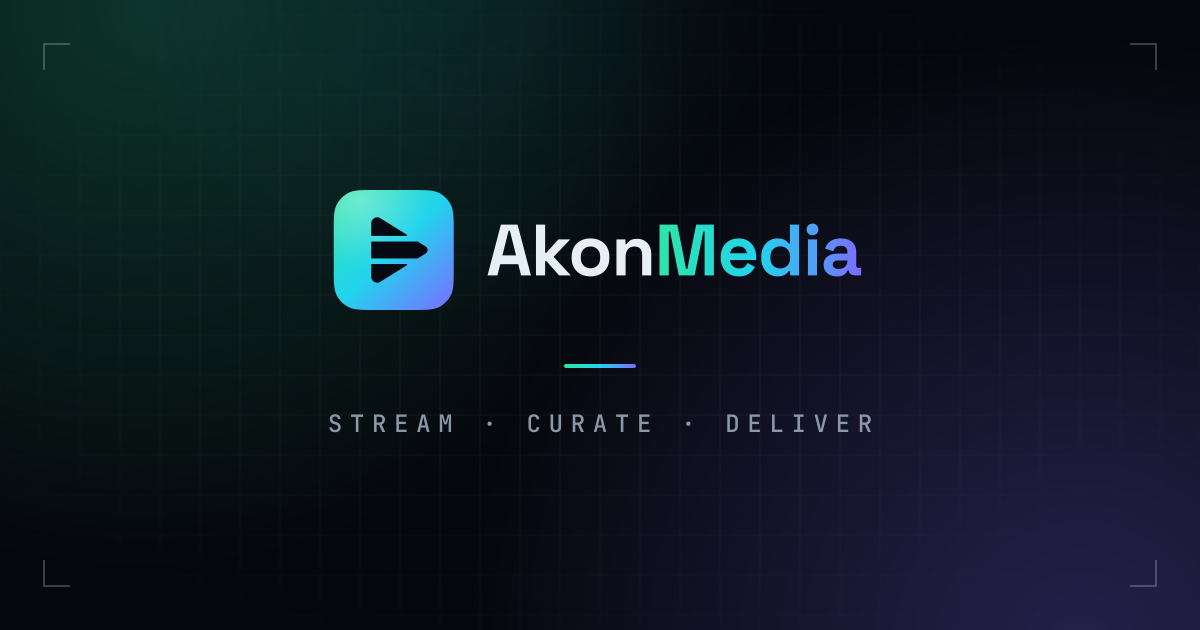
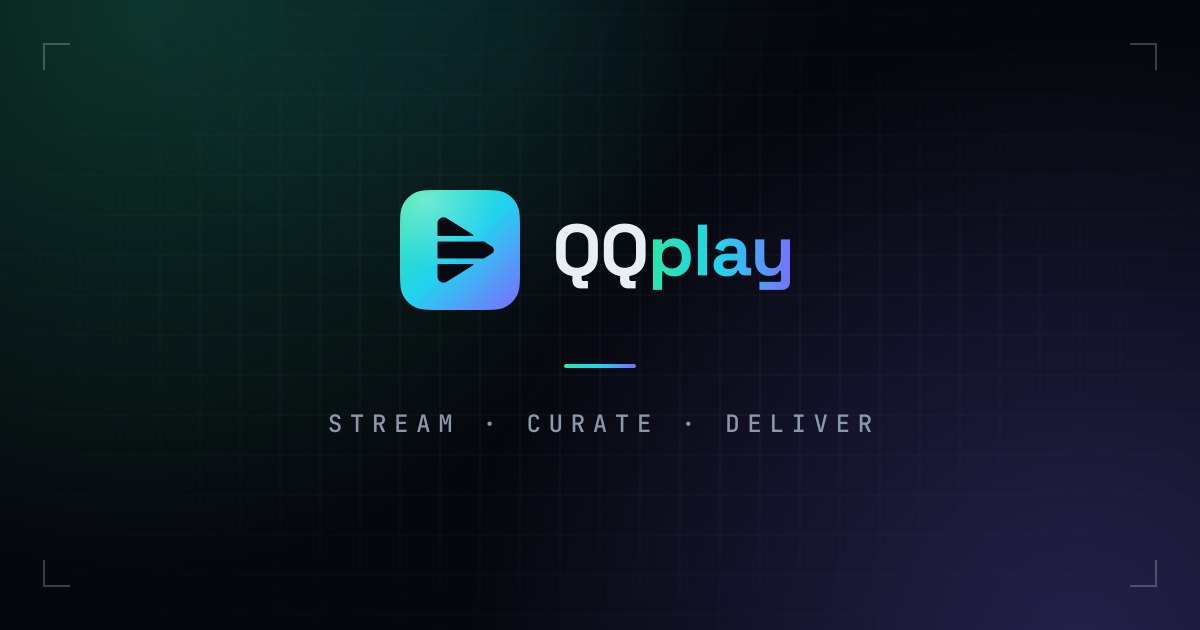
brand: rename the product to QQplay
Everything a person reads now says QQplay: the portal name (PORTAL_NAME
default), the wordmark ("QQ" in the text colour, "play" in the aurora
gradient; the play-ladder mark stays), SVG titles, the web manifest,
the social card, the demo content, the docs and the Oracle guide.
tools/build_logo.py takes the name from BRAND_NAME, and the header's
logo size follows the new, narrower wordmark.

The names an operator sees follow, while nothing runs in production
yet: compose project and volumes (qqplay_*), images, database name and
user, backups (~/qqplay-backups, qqplay-*.dump), the Celery app and the
health check. The guide clones into ~/qqplay. AKON_DOMAIN becomes
PORTAL_DOMAIN, so the deploy files no longer carry a product name.

The database service now reads POSTGRES_DB, POSTGRES_USER and
POSTGRES_PASSWORD from .env, like the portal does, with defaults that
match .env.docker, and backup.sh and the docs ask the container for
them. An .env copied before the rename (akonmedia names) keeps working
instead of pointing the portal at a database that does not exist.

Internal code identifiers that nobody sees stay as they are: the akon
template tag library, the AkonPlayer/AkonApp scripting API, browser
storage keys and the paths inside the live image. LICENSE keeps its
copyright line.

Verified: 284 tests; images rebuilt; the stack started both with an
old-style .env (database created with the akonmedia names, portal
[…]

Changed region(s): [[0.2775, 0.3016, 0.74, 0.5127]]

diff --git a/templates/base.html b/templates/base.html
@@ -58,8 +58,8 @@
         {% icon "menu" %}
       </button>
       <a class="brand" href="{% url 'core:index' %}" aria-label="{% blocktranslate %}{{ PORTAL_NAME }} home{% endblocktranslate %}">
-        <img class="logo-dark" src="{% static 'brand/logo-wordmark-dark.svg' %}" alt="{{ PORTAL_NAME }}" width="142" height="32">
-        <img class="logo-light" src="{% static 'brand/logo-wordmark-light.svg' %}" alt="{{ PORTAL_NAME }}" width="142" height="32">
+        <img class="logo-dark" src="{% static 'brand/logo-wordmark-dark.svg' %}" alt="{{ PORTAL_NAME }}" width="107" height="32">
+        <img class="logo-light" src="{% static 'brand/logo-wordmark-light.svg' %}" alt="{{ PORTAL_NAME }}" width="107" height="32">
       </a>
     </div>
 
@@ -124,8 +124,8 @@
     <aside class="sidebar" id="sidebar" aria-label="{% translate 'Main navigation' %}">
       <div class="drawer-head">
         <a class="brand" href="{% url 'core:index' %}">
-          <img class="logo-dark" src="{% static 'brand/logo-wordmark-dark.svg' %}" alt="{{ PORTAL_NAME }}" width="133" height="30">
-          <img class="logo-light" src="{% static 'brand/logo-wordmark-light.svg' %}" alt="{{ PORTAL_NAME }}" width="133" height="30">
+          <img class="logo-dark" src="{% static 'brand/logo-wordmark-dark.svg' %}" alt="{{ PORTAL_NAME }}" width="100" height="30">
+          <img class="logo-light" src="{% static 'brand/logo-wordmark-light.svg' %}" alt="{{ PORTAL_NAME }}" width="100" height="30">
         </a>
         <button class="icon-btn" type="button" data-action="toggle-sidebar" aria-label="{% translate 'Close navigation' %}">{% icon "x" %}</button>
       </div>

diff --git a/static/css/player.css b/static/css/player.css
@@ -1,4 +1,4 @@
-/* AkonMedia player — pairs with static/js/player.js.
+/* QQplay player — pairs with static/js/player.js.
  *
  * Everything is scoped under .player and prefixed pl-, so it can sit inside
  * any page. Site tokens are used when present, with fallbacks so the embed

diff --git a/static/js/cast.js b/static/js/cast.js
@@ -1,4 +1,4 @@
-/* AkonMedia: streaming a live from the browser.
+/* QQplay: streaming a live from the browser.
  *
  * In the control room, the "From this browser" tab records the camera, or the
  * screen with the microphone, using MediaRecorder, and posts one chunk a

diff --git a/static/js/live.js b/static/js/live.js
@@ -1,4 +1,4 @@
-/* AkonMedia live pages: the viewer page, the studio's control room and the
+/* QQplay live pages: the viewer page, the studio's control room and the
  * embed.
  *
  * The server renders every state of the page (waiting, on air, ended, each

diff --git a/static/js/app.js b/static/js/app.js
@@ -1,4 +1,4 @@
-/* AkonMedia interface behaviour.
+/* QQplay interface behaviour.
  *
  * Small, dependency-free enhancements. Every page works without this file;
  * it adds keyboard shortcuts, menus, copy buttons, live processing status and

diff --git a/static/js/player.js b/static/js/player.js
@@ -1,4 +1,4 @@
-/* AkonMedia player.
+/* QQplay player.
  *
  * Progressive enhancement over a native <video controls> element. Without
  * JavaScript the browser's own controls stay in place. With it, the element

diff --git a/static/css/app.css b/static/css/app.css
@@ -1,4 +1,4 @@
-/* AkonMedia — hand-written stylesheet, no framework.
+/* QQplay — hand-written stylesheet, no framework.
  *
  *  1. tokens (dark default, light theme)
  *  2. base

diff --git a/tools/build_logo.py b/tools/build_logo.py
@@ -1,4 +1,4 @@
-"""Build the AkonMedia brand kit: logo, app icons, web fonts and icon sprite.
+"""Build the QQplay brand kit: logo, app icons, web fonts and icon sprite.
 
 Every file this script writes is generated and committed; none is hand-edited.
 
@@ -88,6 +88,12 @@ LUCIDE_CDN = f"https://cdn.jsdelivr.net/npm/lucide-static@{LUCIDE_VERSION}"
 # palette
 # --------------------------------------------------------------------------
 
+#: The name on the wordmark, in the SVG titles, the web manifest and the social
+#: card. The wordmark sets the first BRAND_SPLIT letters in the text colour and
+#: the rest in the aurora gradient: "QQ" + "play".
+BRAND_NAME = "QQplay"
+BRAND_SPLIT = 2
+
 INK = "#050A12"
 NIGHT = "#05070C"
 AURORA = ("#2EE6A6", "#22D3EE", "#7C6CFF")       # mint, cyan, violet
@@ -141,7 +147,7 @@ def write_bytes(path: pathlib.Path, data: bytes) -> None:
 
 
 def fetch(url: str) -> bytes:
-    request = urllib.request.Request(url, headers={"User-Agent": "akonmedia-build"})
+    request = urllib.request.Request(url, headers={"User-Agent": "qqplay-build"})
     with urllib.request.urlopen(request, timeout=60) as response:
         return response.read()
 
@@ -458,7 +464,7 @@ def mark_layers(prefix: str, size: float, *, x: float = 0, y: float = 0,
 
 
 def svg_document(width: float, height: float, defs: str, body: str, *,
-                 label: str | None = "AkonMedia", extra: str = "") -> str:
+                 label: str | None = BRAND_NAME, extra: str = "") -> str:
     accessible = (
         f' role="img" aria-label="{label}"' if label else ' aria-hidden="true"'
     )
@@ -480,20 +486,20 @@ def wordmark_parts(variant: str) -> tuple[float, str, str]:
     # Centre the capitals on the tile: Space Grotesk caps are 0.7 em tall.
     baseline = WORDMARK_HEIGHT / 2 + WORDMARK_SIZE * 0.7 / 2
     text_x = WORDMARK_HEIGHT + WORDMARK_GAP
-    (akon, _, _), (media, media_start, media_end) = set_type(
-        "space-grotesk", "AkonMedia", size=WORDMARK_SIZE, weight=700, x=text_x,
-        baseline=baseline, tracking=WORDMARK_TRACKING, splits=(4,),
+    (head, _, _), (tail, tail_start, tail_end) = set_type(
+        "space-grotesk", BRAND_NAME, size=WORDMARK_SIZE, weight=700, x=text_x,
+        baseline=baseline, tracking=WORDMARK_TRACKING, splits=(BRAND_SPLIT,),
     )
     colors = AURORA if on_dark else AURORA_DEEP
     defs += gradient(
         f"{prefix}-type", colors, user_space=True,
-        x1=num(media_start), y1="0", x2=num(media_end), y2="0",
+        x1=num(tail_start), y1="0", x2=num(tail_end), y2="0",
     )
     body += (
-        f'<path d="{akon}" fill="{TEXT_ON_DARK if on_dark else TEXT_ON_LIGHT}"/>'
-        f'<path d="{media}" fill="url(#{prefix}-type)"/>'
+        f'<path d="{head}" fill="{TEXT_ON_DARK if on_dark else TEXT_ON_LIGHT}"/>'
+        f'<path d="{tail}" fill="url(#{prefix}-type)"/>'
     )
-    width = math.ceil(media_end + 1)
+    width = math.ceil(tail_end + 1)
     return width, defs, body
 
 
@@ -568,8 +574,8 @@ def build_brand() -> None:
     write_bytes(BRAND / "og-image.png", png(og_image_svg(), 1200, 630))
 
     manifest = {
-        "name": "AkonMedia",
-        "short_name": "AkonMedia",
+        "name": BRAND_NAME,
+        "short_name": BRAND_NAME,
         "description": "Stream, curate and deliver video, audio and images.",
         "start_url": "/",
         "scope": "/",
@@ -658,7 +664,7 @@ def og_image_svg() -> str:
         f'<path d="{path}" fill="{MUTED}"/></g>'
     )
 
-    return svg_document(width, height, "".join(defs), "".join(body), label="AkonMedia")
+    return svg_document(width, height, "".join(defs), "".join(body))
 
 
 # --------------------------------------------------------------------------

diff --git a/config/settings/base.py b/config/settings/base.py
@@ -50,7 +50,7 @@ DEBUG = env_bool("DEBUG", False)
 ALLOWED_HOSTS = env_list("ALLOWED_HOSTS", ["localhost", "127.0.0.1"])
 CSRF_TRUSTED_ORIGINS = env_list("CSRF_TRUSTED_ORIGINS", [])
 
-PORTAL_NAME = env("PORTAL_NAME", "AkonMedia")
+PORTAL_NAME = env("PORTAL_NAME", "QQplay")
 PORTAL_DESCRIPTION = env("PORTAL_DESCRIPTION", "")
 SITE_URL = env("SITE_URL", "http://localhost:8000").rstrip("/")
 
@@ -123,8 +123,8 @@ if env("POSTGRES_HOST"):
     DATABASES = {
         "default": {
             "ENGINE": "django.db.backends.postgresql",
-            "NAME": env("POSTGRES_DB", "akonmedia"),
-            "USER": env("POSTGRES_USER", "akonmedia"),
+            "NAME": env("POSTGRES_DB", "qqplay"),
+            "USER": env("POSTGRES_USER", "qqplay"),
             "PASSWORD": env("POSTGRES_PASSWORD", ""),
             "HOST": env("POSTGRES_HOST", "localhost"),
             "PORT": env_int("POSTGRES_PORT", 5432),

diff --git a/apps/media/management/commands/seed_demo.py b/apps/media/management/commands/seed_demo.py
@@ -41,7 +41,7 @@ from apps.rbac.roles import Role
 from apps.users.models import User
 
 PEOPLE = [
-    ("studio@example.com", "Akon Studio", Role.EDITOR),
+    ("studio@example.com", "QQplay Studio", Role.EDITOR),
     ("ana@example.com", "Ana Lima", Role.MEMBER),
     ("leo@example.com", "Leo Park", Role.MEMBER),
     ("kai@example.com", "Kai Moreno", Role.MANAGER),
@@ -387,7 +387,7 @@ class Command(BaseCommand):
         except TypeError:  # Pillow without FreeType support
             heading = body = ImageFont.load_default()
         draw.rectangle([0, 0, 1240, 18], fill=(34, 211, 238))
-        draw.text((100, 140), "AkonMedia", font=heading, fill=(5, 7, 12))
+        draw.text((100, 140), "QQplay", font=heading, fill=(5, 7, 12))
         draw.text((100, 230), "Visão geral da plataforma", font=body, fill=(90, 106, 129))
         lines = [
             "1. Envio em partes, com retomada.",

diff --git a/apps/core/views.py b/apps/core/views.py
@@ -521,7 +521,7 @@ def upload(request):
 def health(request):
     """Liveness probe. Deliberately dumb: it must answer even when the
     database is down, so orchestration can tell "starting" from "crashed"."""
-    return JsonResponse({"status": "ok", "service": "akonmedia"})
+    return JsonResponse({"status": "ok", "service": "qqplay"})
 
 
 @never_cache
@@ -536,8 +536,8 @@ def ready(request):
         checks["database"] = f"error: {type(exc).__name__}"
         healthy = False
     try:
-        cache.set("akonmedia:ready", "1", 5)
-        checks["cache"] = "ok" if cache.get("akonmedia:ready") == "1" else "error"
+        cache.set("qqplay:ready", "1", 5)
+        checks["cache"] = "ok" if cache.get("qqplay:ready") == "1" else "error"
     except Exception as exc:  # noqa: BLE001
         checks["cache"] = f"error: {type(exc).__name__}"
     if checks["cache"] != "ok":

diff --git a/config/celery.py b/config/celery.py
@@ -9,6 +9,6 @@ from celery import Celery
 
 os.environ.setdefault("DJANGO_SETTINGS_MODULE", "config.settings.dev")
 
-app = Celery("akonmedia")
+app = Celery("qqplay")
 app.config_from_object("django.conf:settings", namespace="CELERY")
 app.autodiscover_tasks()
